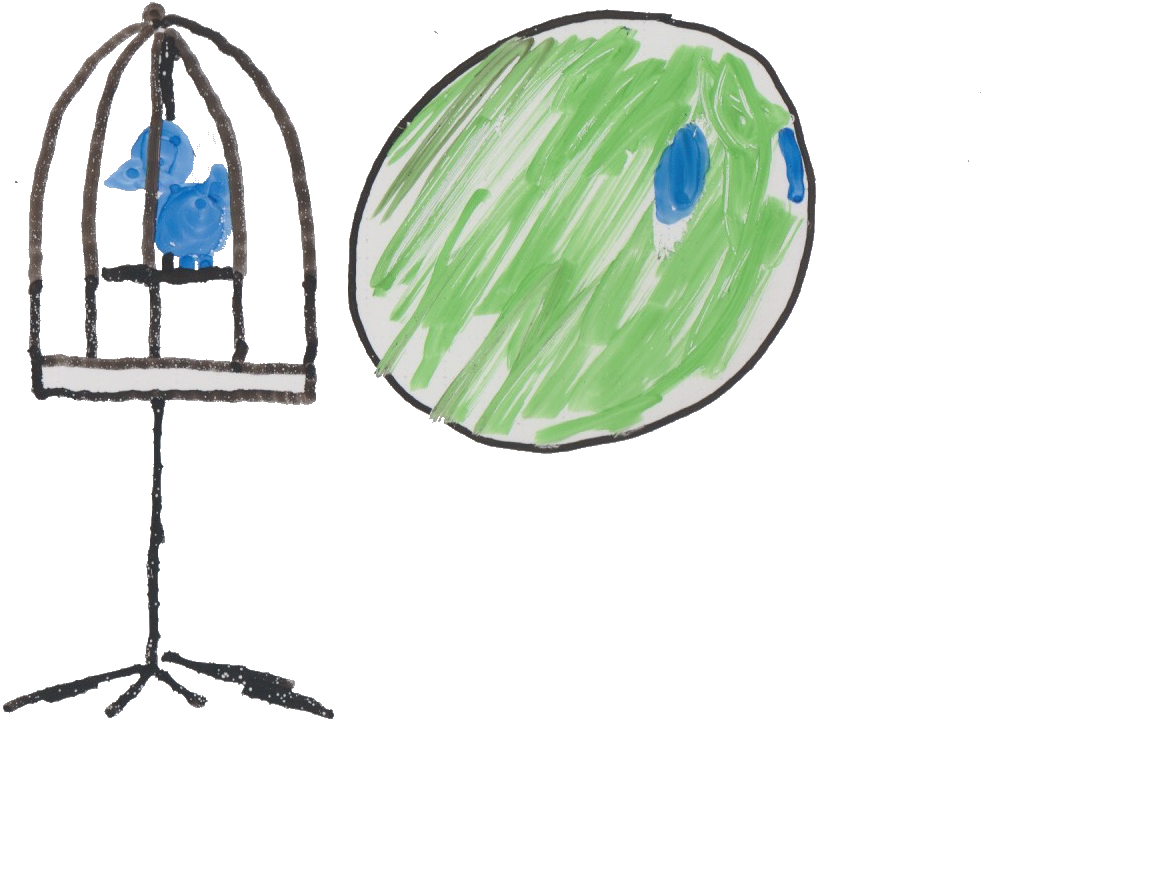
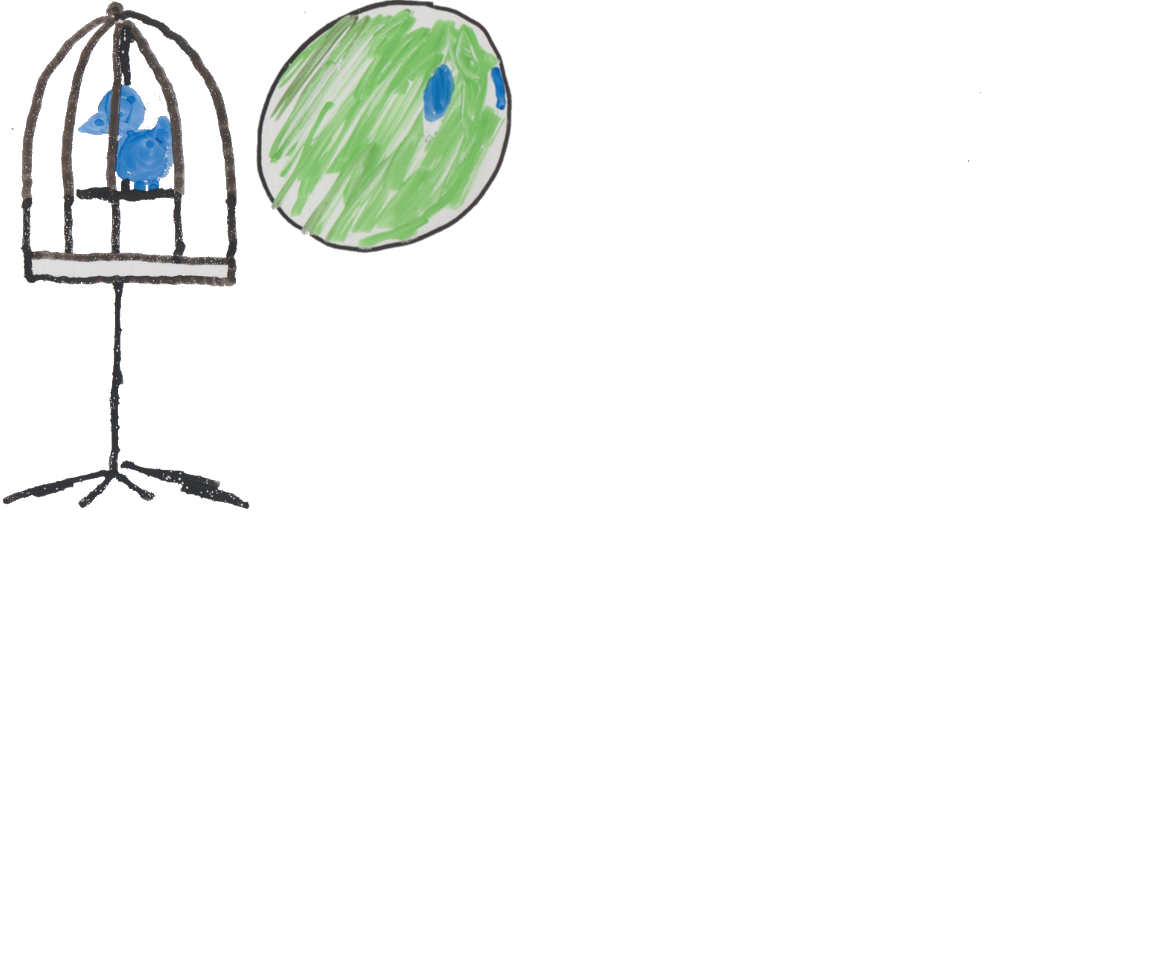
Add hanging, make sprite sizes powers of 2

Changed region(s): [[0.0, 0.0, 0.7083, 0.8275]]

diff --git a/src/systems/behavior/hero.rs b/src/systems/behavior/hero.rs
@@ -29,6 +29,7 @@ impl System<Context> for Hero {
       (pos, vel, col, heroes, deadlies, checkpoints, hero_events, phys_events)
     });
     hero_events.clear();
+    let input = context.input.current();
 
     //Physics event checking
     {
@@ -74,6 +75,12 @@ impl System<Context> for Hero {
                 if vel.y == 0.0 { hero.jump_state.on_landed() }
               })
             });
+          },
+
+          events::Physics::Bonked(e1) => {
+            heroes.get_mut(e1).map(|hero| {
+              if input.1.contains(input::JUMP) { hero.hang_state.on_bonked() }
+            });
           }
         }
       }
@@ -81,18 +88,18 @@ impl System<Context> for Hero {
 
     // Jump around, Jump around
     for mut val in (&mut positions, &mut velocities, &mut heroes).iter() {
-      update(&mut val, context.input.current());
-      run(&mut val, context.input.current());
+      update(&mut val, input);
     }
   }
 }
 
 fn update(&mut (_, ref mut vel, ref mut hero): &mut (&mut Position, &mut Velocity, &mut HeroBehavior), inputs: (input::Input, input::Input)) {
+  hero.hang_state.update(vel.y);
+  vel.y = hero.hang_state.get_yvel();
+
   hero.jump_state.update(vel.y, inputs);
   vel.y = hero.jump_state.get_yvel();
-}
 
-fn run(&mut (_, ref mut vel, ref mut hero): &mut (&mut Position, &mut Velocity, &mut HeroBehavior), inputs: (input::Input, input::Input)) {
   hero.run_state.update(vel.x, vel.y, inputs);
   let (new_xvel, new_yvel) = hero.run_state.get_vel();
   vel.x = new_xvel;

diff --git a/src/fsm/hero/hang/hang.rs b/src/fsm/hero/hang/hang.rs
@@ -1,0 +1,57 @@
+use input::{self, Input};
+use super::Hang;
+use super::constants::*;
+
+#[derive(Debug, PartialEq)]
+enum HangState {
+  Free,
+  Hanging
+}
+
+#[derive(Debug, PartialEq)]
+pub struct HangFSM {
+  hang_state: HangState,
+  yvel: f64
+}
+
+impl HangFSM {
+  pub fn new() -> HangFSM {
+    HangFSM {
+      hang_state: HangState::Free,
+      yvel: 0.0
+    }
+  }
+
+  fn _update(&self, yvel: f64) -> HangFSM {
+    match self.hang_state {
+      HangState::Free => {
+        HangFSM {
+          hang_state: HangState::Free,
+          yvel: yvel
+        }
+      },
+
+      HangState::Hanging => {
+        HangFSM {
+          hang_state: HangState::Free,
+          yvel: HANG_YVEL
+        }
+      }
+    }
+  }
+}
+
+impl Hang for HangFSM {
+  fn get_yvel(&self) -> f64 { self.yvel }
+
+  fn on_bonked(&mut self) {
+    *self = HangFSM {
+      hang_state: HangState::Hanging,
+      yvel: 0.0
+    };
+  }
+
+  fn update(&mut self, yvel: f64) {
+    *self = self._update(yvel);
+  }
+}

diff --git a/src/systems/physics.rs b/src/systems/physics.rs
@@ -72,10 +72,14 @@ impl System<Context> for Physics {
             }
 
             if adjustment.dir().y != 0.0 {
-              let eid =
-                if adjustment.dir().y.is_sign_negative() { lookup_table.get(&e1).unwrap() }
-                else { lookup_table.get(&e2).unwrap() };
-              buffered_events.insert(events::Physics::Landed(eid.clone()));
+              let (landed_eid, bonked_eid) =
+                if adjustment.dir().y.is_sign_negative() {
+                  (lookup_table.get(&e1).unwrap(), lookup_table.get(&e2).unwrap())
+                } else {
+                  (lookup_table.get(&e2).unwrap(), lookup_table.get(&e1).unwrap())
+                };
+              buffered_events.insert(events::Physics::Landed(landed_eid.clone()));
+              buffered_events.insert(events::Physics::Bonked(bonked_eid.clone()));
 
               h1.vel.pos.y = 0.0;
               h2.vel.pos.y = 0.0;

diff --git a/src/systems/director.rs b/src/systems/director.rs
@@ -130,7 +130,7 @@ fn create_entities(world: &World, game_state: &mut GameState, map_file: &'static
     .create_later_build()
     .with::<Position>(Position { x: 30.0, y: 30.0 })
     .with::<Collision>(Collision {
-      bounds: Shape::new_rect(Vec2::new(32.0, 128.0)),
+      bounds: Shape::new_rect(Vec2::new(64.0, 128.0)),
       priority: Priority::Low,
       group: CGroup::Enemy
     })
@@ -168,7 +168,7 @@ fn create_hero(world: &World, game_state: &GameState) -> Entity {
     .create_later_build()
     .with::<Position>(Position { x: start_x, y: start_y })
     .with::<Collision>(Collision {
-      bounds: Shape::new_rect(Vec2::new(24.0, 24.0)),
+      bounds: Shape::new_rect(Vec2::new(30.0, 30.0)),
       priority: Priority::Low,
       group: CGroup::Friendly
     })

diff --git a/src/components/sprite.rs b/src/components/sprite.rs
@@ -12,17 +12,17 @@ impl Component for Sprite {
 }
 
 impl Sprite {
-  pub fn as_image(&self) -> graphics::Image {
+  pub fn as_image(&self, x: f64, y: f64) -> graphics::Image {
     match *self {
       Sprite::Hero => {
         graphics::image::Image::new()
-          .rect([0.0, 0.0, 38.0, 24.0])
-          .src_rect([342.0, 0.0, 812.0, 512.0])
+          .rect([x, y, 32.0, 32.0])
+          .src_rect([256.0, 0.0, 256.0, 256.0])
       },
       Sprite::Bird => {
         graphics::image::Image::new()
-          .rect([0.0, 0.0, 32.0, 128.0])
-          .src_rect([0.0, 0.0, 330.0, 720.0])
+          .rect([x, y, 64.0, 128.0])
+          .src_rect([0.0, 0.0, 256.0, 512.0])
       }
     }
   }

diff --git a/src/components/behavior/hero.rs b/src/components/behavior/hero.rs
@@ -1,11 +1,12 @@
 use specs::{Component, VecStorage};
 use progress::Progress;
-use fsm::hero::{Run, Jump, SingleJumpFSM, DoubleJumpFSM, RunFSM, DashFSM};
+use fsm::hero::{Run, Jump, Hang, SingleJumpFSM, DoubleJumpFSM, RunFSM, DashFSM, HangFSM, HanglessFSM};
 
 #[derive(Debug)]
 pub struct Hero {
   pub jump_state: Box<Jump>,
   pub run_state: Box<Run>,
+  pub hang_state: Box<Hang>,
   pub progress: Progress
 }
 
@@ -14,6 +15,7 @@ impl Hero {
     Hero {
       jump_state: Box::new(DoubleJumpFSM::new()),
       run_state: Box::new(DashFSM::new()),
+      hang_state: Box::new(HangFSM::new()),
       progress: progress
     }
   }

diff --git a/src/main.rs b/src/main.rs
@@ -81,10 +81,9 @@ impl App {
       };
 
       for (pos, sprite) in (&positions, &sprites).iter() {
-        let graphic = sprite.as_image();
+        let graphic = sprite.as_image(pos.x - camera.screen.x, pos.y - camera.screen.y);
         let draw_state = graphics::DrawState::default();
-        let xform = c.transform.trans(pos.x - camera.screen.x, pos.y - camera.screen.y);
-        graphic.draw_tri(texture, &draw_state, xform, g);
+        graphic.draw_tri(texture, &draw_state, c.transform, g);
       };
 
       for (pos, col, _) in (&positions, &collision, &blast_zones).iter() {

diff --git a/src/fsm/hero/hang/hangless.rs b/src/fsm/hero/hang/hangless.rs
@@ -1,0 +1,24 @@
+use input::{self, Input};
+use super::Hang;
+use super::constants::*;
+
+#[derive(Debug, PartialEq)]
+pub struct HanglessFSM {
+  yvel: f64
+}
+
+impl HanglessFSM {
+  pub fn new() -> HanglessFSM {
+    HanglessFSM {
+      yvel: 0.0
+    }
+  }
+}
+
+impl Hang for HanglessFSM {
+  fn get_yvel(&self) -> f64 { self.yvel }
+  fn on_bonked(&mut self) { }
+  fn update(&mut self, yvel: f64) {
+    self.yvel = yvel;
+  }
+}

diff --git a/src/fsm/hero/hang/mod.rs b/src/fsm/hero/hang/mod.rs
@@ -1,0 +1,14 @@
+use std::fmt::Debug;
+use input::Input;
+pub use self::hang::HangFSM;
+pub use self::hangless::HanglessFSM;
+
+mod hang;
+mod hangless;
+mod constants;
+
+pub trait Hang: Debug + Send + Sync {
+  fn on_bonked(&mut self);
+  fn get_yvel(&self) -> f64;
+  fn update(&mut self, yvel: f64);
+}

diff --git a/src/fsm/hero/mod.rs b/src/fsm/hero/mod.rs
@@ -2,6 +2,8 @@ use input::{self, Input};
 
 mod jump;
 mod run;
+mod hang;
 
 pub use self::jump::{Jump, SingleJumpFSM, DoubleJumpFSM};
 pub use self::run::{Run, RunFSM, DashFSM};
+pub use self::hang::{Hang, HangFSM, HanglessFSM};

diff --git a/src/events.rs b/src/events.rs
@@ -18,7 +18,8 @@ pub enum Hero {
 #[derive(Debug, Clone, Hash, PartialEq, Eq)]
 pub enum Physics {
   Collide(Entity, Entity),
-  Landed(Entity)
+  Landed(Entity),
+  Bonked(Entity)
 }
 
 #[derive(Debug, Clone)]

diff --git a/src/fsm/hero/hang/constants.rs b/src/fsm/hero/hang/constants.rs
@@ -1,0 +1,1 @@
+pub const HANG_YVEL: f64 = -2.0;
